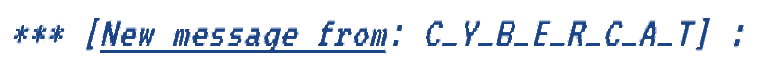
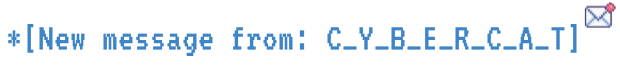
Testing size of text

Changed region(s): [[0.0, 0.0303, 1.0, 0.8485]]

diff --git a/README.md b/README.md
@@ -1,20 +1,53 @@
 <h3><i>«Why mathematicians don't like basketball? Because they don't understand how is it possible to get into the field, but not into the ring.»</i></h3>
-<hr>
+
+----
+
 <img align=left src="rpg_cat.png" width=18%>
 <img align=left src="from.png" width=40%>
-<a href="https://git.io/typing-svg"><img src="https://readme-typing-svg.demolab.com?font=VT323&size=22&duration=3750&pause=500&color=DFA5F7&multiline=true&repeat=false&width=800&height=200&lines=%E2%80%8E%E3%80%9FMeow+there%2C+traveler!+I+am+Cybercat%2C+the+chick's+who+owns+this+account+beloved+pet.;So%2C+about+me...+Wait%2C+everybody+loves+cats!+So%2C+about+my+owner...+Her+name+is+Alice.;Alice+does+Software+Development%2C+Data+Science%2C+Competitive+Programming+and+other+stuff.+;She+will+name+it+all+herself.+Cmon%2C+just+give+her+some+work%2C+she+can't+even+sit+idly+by!;Wait%2C+is+that+Cybernibble+I+can+smell%3F+Shoot%2C+for+real+it+is!+I+gotta+go%2C+cya!+＂" alt="Typing SVG" /></a>
+
+[![Typing SVG](https://readme-typing-svg.demolab.com?font=VT323&size=17&duration=4500&pause=700&color=B491F7&multiline=true&repeat=false&width=600&height=200&lines=Greetings%2C+traveler!+I'm+Cybercat%2C+the+beloved+pet+of+this+adorable+account+owner.;Her+name+is+Alice%2C+she's+16%2C+engaged+in+Data+Science.)](https://git.io/typing-svg)
+
 <img src="domino.png">
 <details>
   <summary>TL;DR</summary>
   <ul>
-    <li>Software Development : Can make simple microservices and apps</li>
-    <li>Data Science : Have understanding of NLP and some machine learning based models</li>
-    <li>Tests : Able to test apps with asserts or manual testing
-    <li>Fit : Experienced in working with Scikit-learn and can train a model with test dataset</li>
-    <li>Prediction Models : Know how to make a prediction with regression models
-    <li>Async : Familiar with asynchronous programming and some of its libraries on Python and C++
-    <li>Algorithms : Created a lot of algorithms both in competitive and production programming
-    <li>Q-learning : Currently discovering this machine learning theme
-    <li>Competitive Programming : Going for international level competitions
+    <li>Git : Work with Git
+    <li>Data Science : Enthusiasm in Data Science
+    <li>Math : Exploring Math Analysis and High Math for Data Science
+    <li>CPP+Python : Most used Programming Langs
+    <li>Regression+Model : Prediction models based on regression models discovered
+    <li>Async : Experienced in working with concurrency programming
+    <li>Parsing : Familiar with parsing tools on CPP+Python
+    <li>Docker : Can containerize an app
+    <li>(Q-)Learning : Never stop learning something new (Q-Learning algorithm in progress)
+    <li>Software+Dev : Able to create simple microservice / app
+    <li>Graph : Have graphs knowledge
+    <li>Competitive+Prog : Practicing for international competitions (like ICPC)
   </ul>
 </details>
+
+----
+
+![languages](https://img.shields.io/static/v1?label=&message=languages:&color=d1bcc7&style=flat-square)
+![python](https://img.shields.io/static/v1?logo=python&label=&message=python&color=36385d&logoColor=AAA&style=flat-square&link=)
+![cpp](https://img.shields.io/static/v1?logo=c%2B%2B&label=&message=cpp&color=36385d&logoColor=AAA&style=flat-square&link=)
+![js](https://img.shields.io/static/v1?logo=javascript&label=&message=javascript&color=36385d&logoColor=AAA&style=flat-square&link=)
+&nbsp;&nbsp;
+&nbsp;&nbsp;
+&nbsp;&nbsp;
+![packages](https://img.shields.io/static/v1?label=&message=packages:&color=d1bcc7&style=flat-square)
+![sklearn](https://img.shields.io/static/v1?logo=scikit-learn&label=&message=sklearn&color=36385d&logoColor=AAA&style=flat-square&link=)
+![pandas](https://img.shields.io/static/v1?logo=pandas&label=&message=sklearn&color=36385d&logoColor=AAA&style=flat-square&link=)
+![selenium](https://img.shields.io/static/v1?logo=selenium&label=&message=selenium&color=36385d&logoColor=AAA&style=flat-square&link=)
+![aiohttp](https://img.shields.io/static/v1?logo=aiohttp&label=&message=aiohttp&color=36385d&logoColor=AAA&style=flat-square&link=)
+![boost](https://img.shields.io/static/v1?logo=boost&label=&message=boost&color=36385d&logoColor=AAA&style=flat-square&link=)
+&nbsp;&nbsp;
+&nbsp;&nbsp;
+&nbsp;&nbsp;
+![tools](https://img.shields.io/static/v1?label=&message=tools:&color=d1bcc7&style=flat-square)
+![docker](https://img.shields.io/static/v1?logo=docker&label=&message=docker&color=36385d&logoColor=AAA&style=flat-square)
+![clion](https://img.shields.io/static/v1?logo=clion&label=&message=clion&color=36385d&logoColor=AAA&style=flat-square)
+![vscodium](https://img.shields.io/static/v1?logo=vscodium&label=&message=vscodium&color=36385d&logoColor=AAA&style=flat-square)
+![git](https://img.shields.io/static/v1?logo=git&label=&message=git&color=36385d&logoColor=AAA&style=flat-square)
+![mongodb](https://img.shields.io/static/v1?logo=mongodb&label=&message=mongodb&color=36385d&logoColor=AAA&style=flat-square&link=)
+
